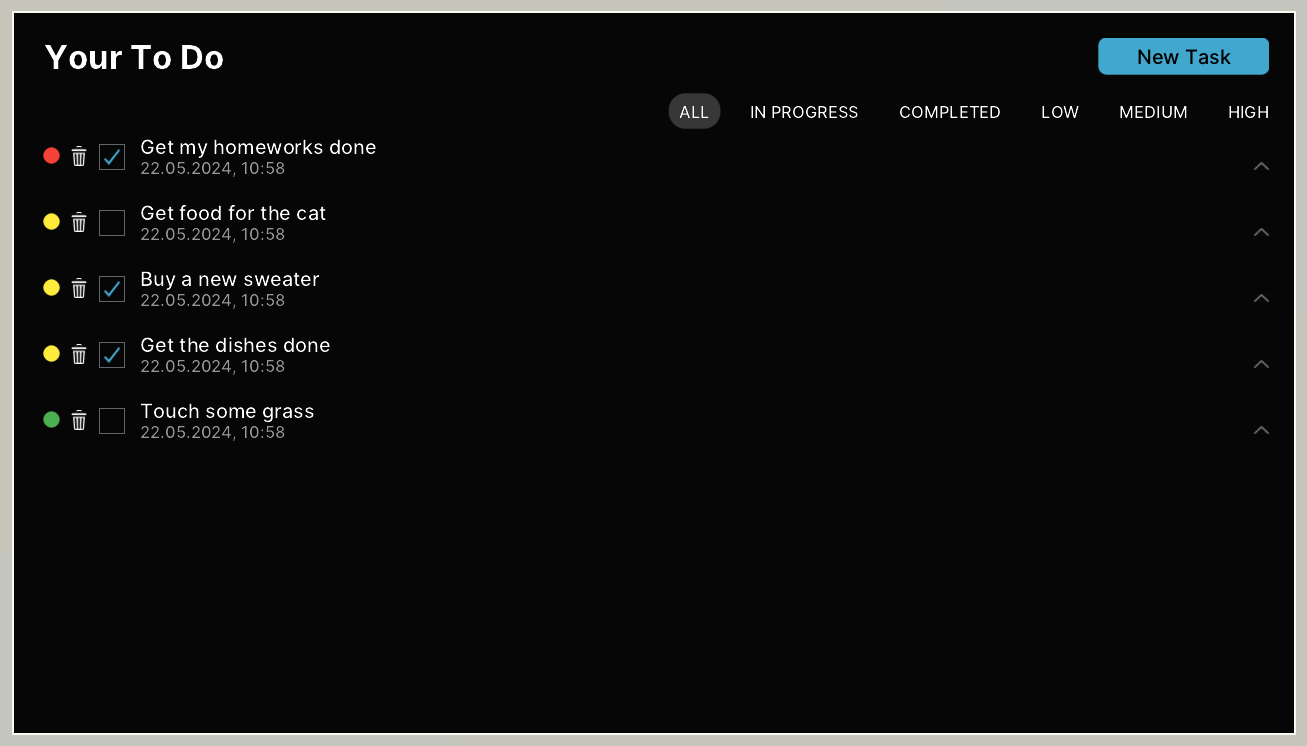
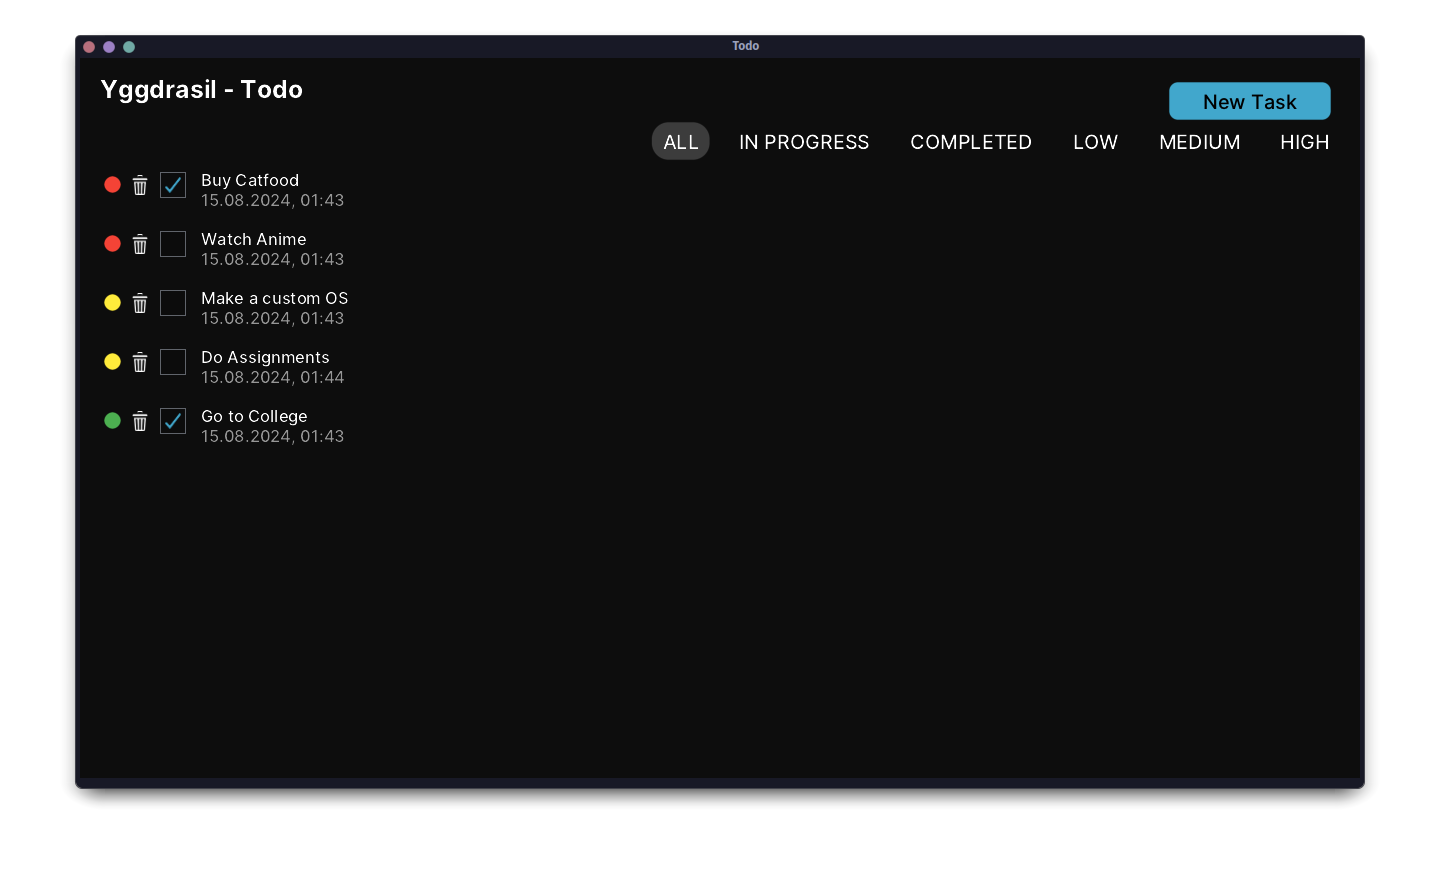
Documentation Changes

Changed region(s): [[0.0, 0.0, 1.0, 1.0]]

diff --git a/.github/README.md b/.github/README.md
@@ -1,6 +1,11 @@
 ## Yggdrasil
 ###### *<div align="right"><sub>// Overview</sub></div>*
-Yggdrasil is a feature-rich to-do application developed using pure C. With a clean and intuitive interface, along with a range of useful features to streamline your productivity, this tool is designed to help you stay organized and on top of your daily tasks.
+_Yggdrasil_ is a everyday to-do application written in C. With a clean and intuitive interface, along with a range of useful features to streamline your productivity.
+
+It supports _serialization & deserialization_ of tasks. Furthmore, the app implements a _priority system_ for your tasks and the displayed tasks are sorted from high to low priority. There is also a _filtering system_ that filters tasks after different critia (eg. completed, high priority,in progress).
+
+###### *<div align="right"><sub>// UI Library</sub></div>*
+The UI of the applicaton is written with the [leif](https://github.com/cococry/leif) UI library which is a small immediate mode UI framework that is written in C and made by [cococry](https://github.com/cococry).
 
 ###### *<div align="right"><sub>// Screenshot</sub></div>*
 <div align="center">
@@ -8,8 +13,34 @@ Yggdrasil is a feature-rich to-do application developed using pure C. With a cle
   <a>
     <img src="assets/todo.png" alt="Logo" width="90%">
   </a>
-  <p> Yggdrasil </p>
+  <p> Yggdrasil (TODO) </p>
 </div>
 
-## License
+>[!IMPORTANT]
+> Application only supports Linux and MacOS.
+
+### Development or Running the Application
+###### *<div align="right"><sub>// Prerequisites</sub></div>*
+```bash
+sudo pacman -S gcc glfw glew cglm # Arch Linux
+yay -S libclipboard-git
+
+git clone https://github.com/cococry/leif # Clone leif (UI Library)
+cd leif
+make -j$(nproc) && sudo make install
+cp -rf ./.leif ~/
+```
+###### *<div align="right"><sub>// Build</sub></div>*
+```bash
+gcc -o todo yggdrasil.c -lleif -lglfw -lm -lGL -lclipboard
+```
+###### *<div align="right"><sub>// Usage</sub></div>*
+```bash
+./todo
+```
+
+### Credits
+[cococry](https://github.com/cococry) for the [leif](https://github.com/cococry/leif) UI library.
+
+### License
 Yggdrasil is licensed under the [MIT License](../LICENSE).
